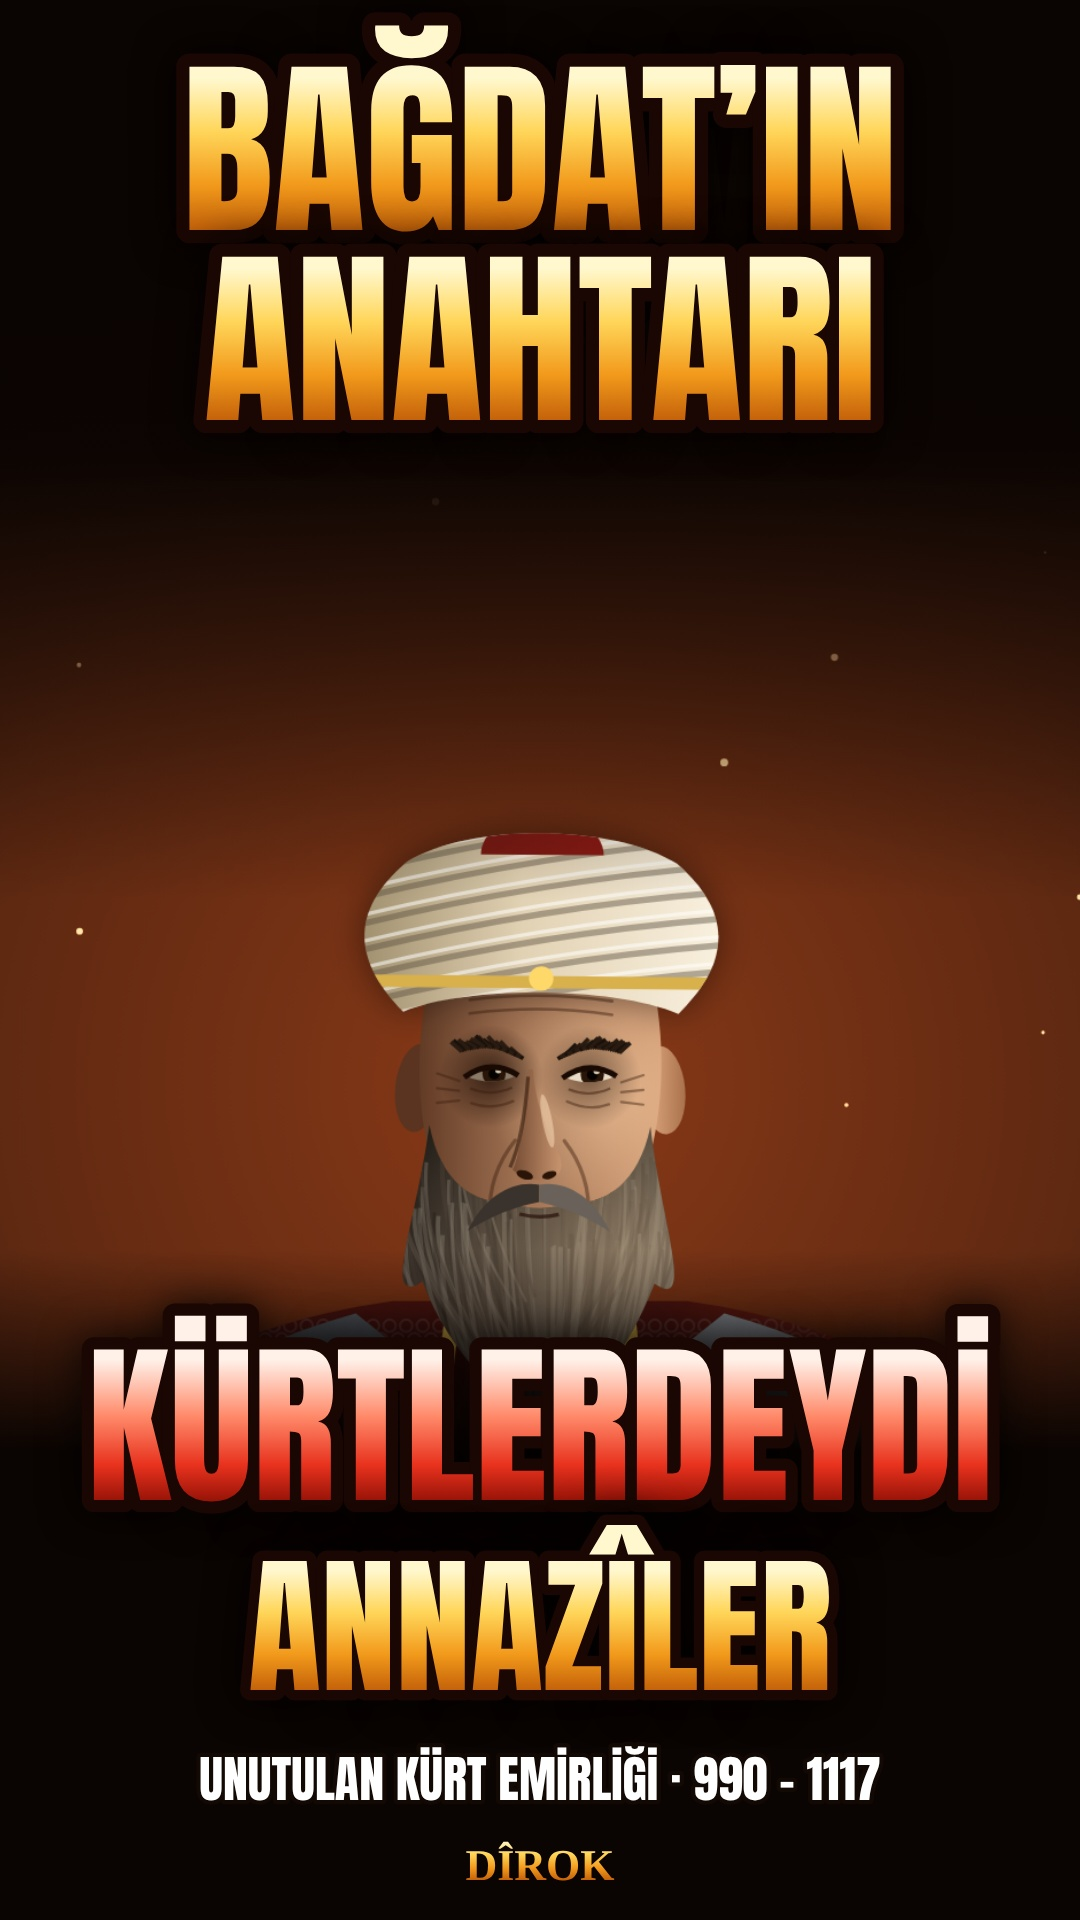
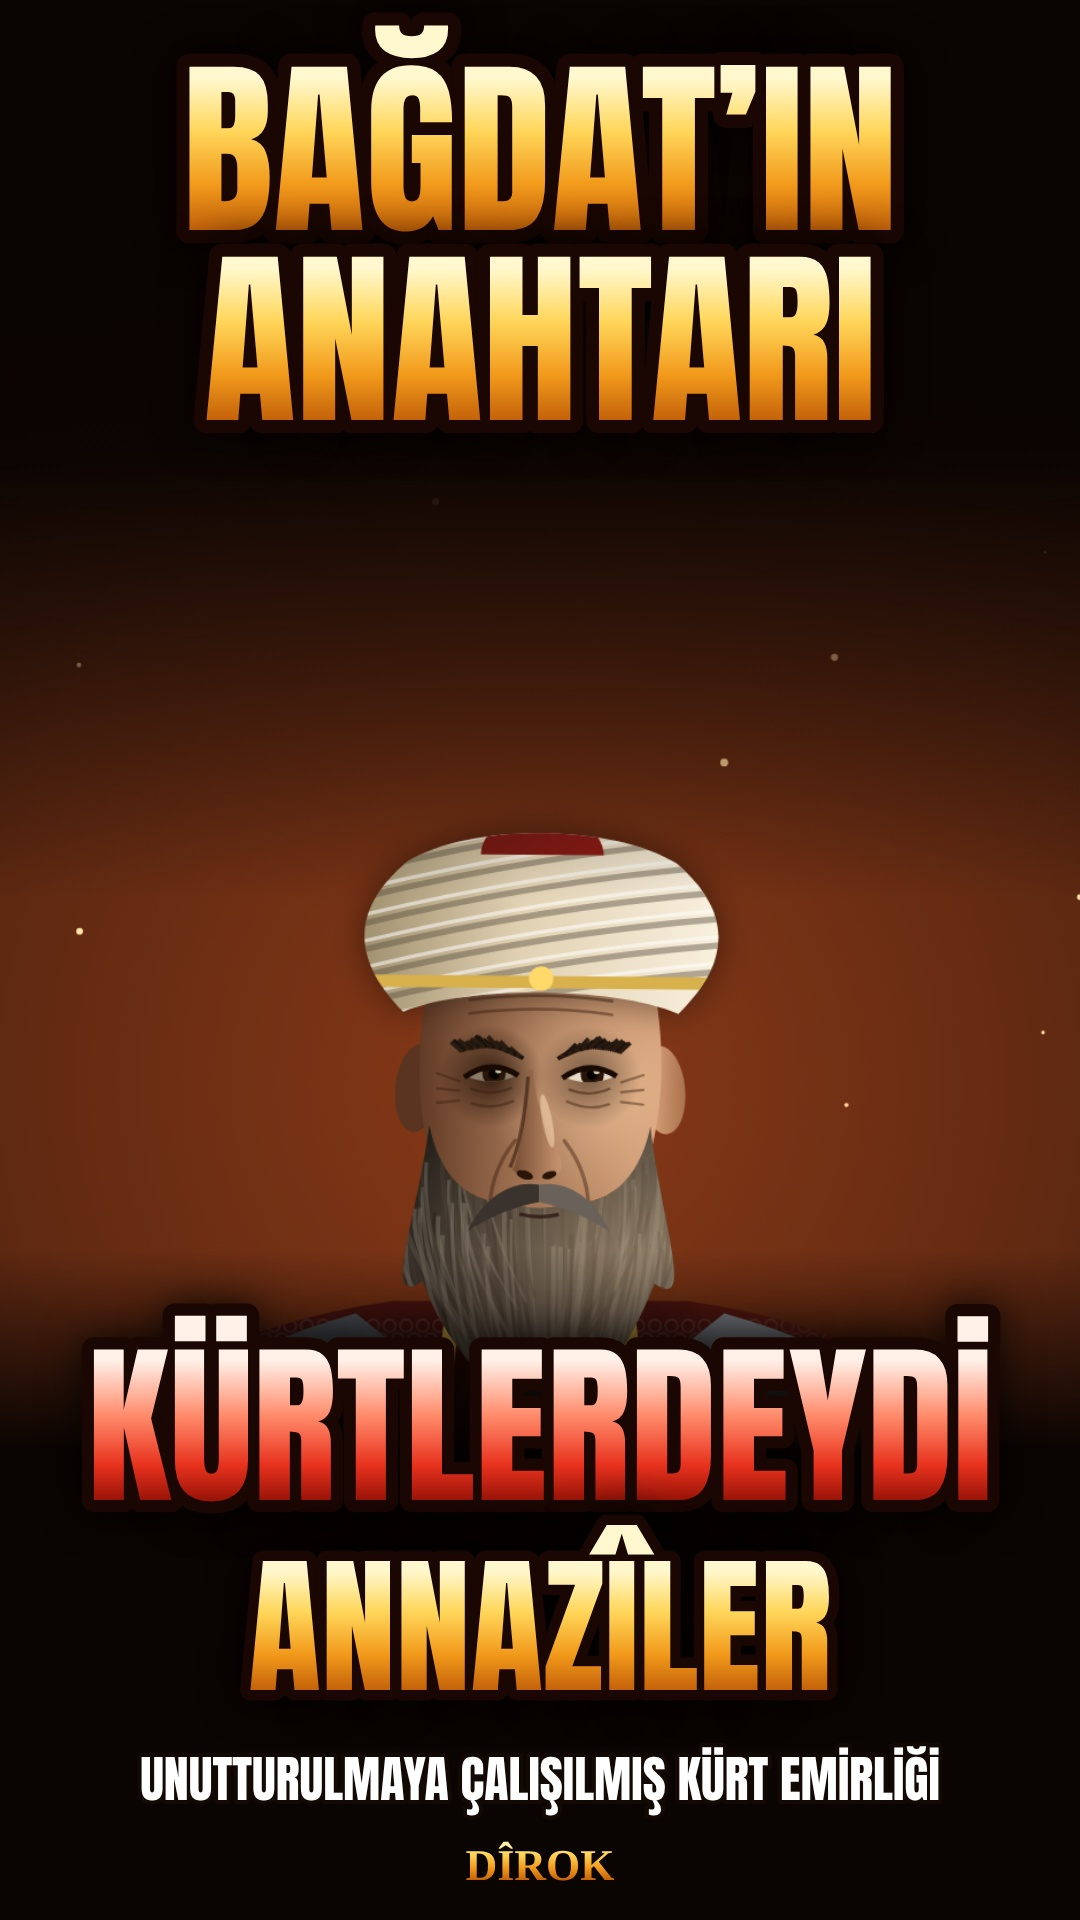
Annaziler shorts: unutturulmaya çalışılmış ifadesi
Claude-Session: https://claude.ai/code/session_015dXLoDhJ7qydrQ2YiWG46Y

Changed region(s): [[0.1222, 0.9062, 0.8861, 0.9375]]

diff --git a/video/gutiler/render/annazi_short.html b/video/gutiler/render/annazi_short.html
@@ -1787,7 +1787,7 @@ Object.assign(SCENE,{court:sCourt,cavalry:sCavalry,clash:sClash,siege:sSiege,car
     const a = pop(t, cu('daha fazlası@-0.3') + .1, .5); if (a > 0) { Y.save(); Y.translate(VW / 2, 760); Y.scale(a, a); Y.font = '900 190px CinzelD'; Y.textAlign = 'center'; Y.lineWidth = 22; Y.lineJoin = 'round'; Y.strokeStyle = '#1a0703'; Y.shadowColor = 'rgba(255,170,40,.8)'; Y.shadowBlur = 60; Y.strokeText('DÎROK', 0, 0); Y.shadowBlur = 0; Y.fillStyle = grad(-150, 0, 'g'); Y.fillText('DÎROK', 0, 0); Y.restore() }
     const b = pop(t, cu('abone@-0.2'), .45); if (b > 0) { Y.save(); Y.translate(VW / 2, 1000); Y.scale(b, b); const pul = 1 + .04 * Math.sin(t * 8); Y.scale(pul, pul); Y.fillStyle = '#e3201b'; Y.shadowColor = 'rgba(0,0,0,.5)'; Y.shadowBlur = 30; Y.beginPath(); Y.roundRect(-330, -85, 660, 170, 40); Y.fill(); Y.shadowBlur = 0;
       Y.font = '110px Anton'; Y.textAlign = 'center'; Y.textBaseline = 'middle'; Y.fillStyle = '#fff'; Y.fillText('ABONE OL', 0, 6); Y.restore();
-      Y.save(); Y.globalAlpha = clamp(b); Y.font = 'italic 600 58px Corm'; Y.textAlign = 'center'; Y.lineWidth = 8; Y.strokeStyle = 'rgba(10,6,4,.8)'; Y.strokeText('Kürt tarihinin unutulmuş sayfaları', VW / 2, 1180); Y.fillStyle = '#ffe9a8'; Y.fillText('Kürt tarihinin unutulmuş sayfaları', VW / 2, 1180); Y.restore() } }
+      Y.save(); Y.globalAlpha = clamp(b); Y.font = 'italic 600 58px Corm'; Y.textAlign = 'center'; Y.lineWidth = 8; Y.strokeStyle = 'rgba(10,6,4,.8)'; [['Kürt tarihinin', 1170], ['unutturulmaya çalışılmış sayfaları', 1240]].forEach(([s, y]) => { Y.strokeText(s, VW / 2, y); Y.fillStyle = '#ffe9a8'; Y.fillText(s, VW / 2, y) }); Y.restore() } }
   // hide engine label boxes in action scenes (titles live in the vertical overlay)
   ['cavalry', 'clash', 'caravan', 'siege', 'court', 'castle', 'portrait'].forEach(k => { const f0 = SCENE[k]; SCENE[k] = function (T, p) { const lb = labelBoxB; labelBoxB = () => { }; try { f0(T, p) } finally { labelBoxB = lb } } });
   // ---- compose ----

diff --git a/video/gutiler/render/short_ann_v.js b/video/gutiler/render/short_ann_v.js
@@ -36,7 +36,7 @@
     const a = pop(t, cu('daha fazlası@-0.3') + .1, .5); if (a > 0) { Y.save(); Y.translate(VW / 2, 760); Y.scale(a, a); Y.font = '900 190px CinzelD'; Y.textAlign = 'center'; Y.lineWidth = 22; Y.lineJoin = 'round'; Y.strokeStyle = '#1a0703'; Y.shadowColor = 'rgba(255,170,40,.8)'; Y.shadowBlur = 60; Y.strokeText('DÎROK', 0, 0); Y.shadowBlur = 0; Y.fillStyle = grad(-150, 0, 'g'); Y.fillText('DÎROK', 0, 0); Y.restore() }
     const b = pop(t, cu('abone@-0.2'), .45); if (b > 0) { Y.save(); Y.translate(VW / 2, 1000); Y.scale(b, b); const pul = 1 + .04 * Math.sin(t * 8); Y.scale(pul, pul); Y.fillStyle = '#e3201b'; Y.shadowColor = 'rgba(0,0,0,.5)'; Y.shadowBlur = 30; Y.beginPath(); Y.roundRect(-330, -85, 660, 170, 40); Y.fill(); Y.shadowBlur = 0;
       Y.font = '110px Anton'; Y.textAlign = 'center'; Y.textBaseline = 'middle'; Y.fillStyle = '#fff'; Y.fillText('ABONE OL', 0, 6); Y.restore();
-      Y.save(); Y.globalAlpha = clamp(b); Y.font = 'italic 600 58px Corm'; Y.textAlign = 'center'; Y.lineWidth = 8; Y.strokeStyle = 'rgba(10,6,4,.8)'; Y.strokeText('Kürt tarihinin unutulmuş sayfaları', VW / 2, 1180); Y.fillStyle = '#ffe9a8'; Y.fillText('Kürt tarihinin unutulmuş sayfaları', VW / 2, 1180); Y.restore() } }
+      Y.save(); Y.globalAlpha = clamp(b); Y.font = 'italic 600 58px Corm'; Y.textAlign = 'center'; Y.lineWidth = 8; Y.strokeStyle = 'rgba(10,6,4,.8)'; [['Kürt tarihinin', 1170], ['unutturulmaya çalışılmış sayfaları', 1240]].forEach(([s, y]) => { Y.strokeText(s, VW / 2, y); Y.fillStyle = '#ffe9a8'; Y.fillText(s, VW / 2, y) }); Y.restore() } }
   // hide engine label boxes in action scenes (titles live in the vertical overlay)
   ['cavalry', 'clash', 'caravan', 'siege', 'court', 'castle', 'portrait'].forEach(k => { const f0 = SCENE[k]; SCENE[k] = function (T, p) { const lb = labelBoxB; labelBoxB = () => { }; try { f0(T, p) } finally { labelBoxB = lb } } });
   // ---- compose ----
